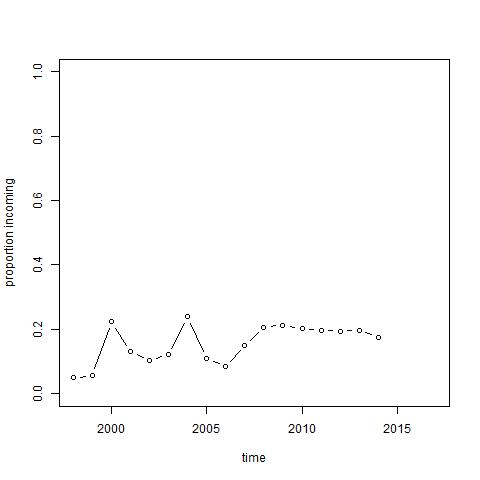
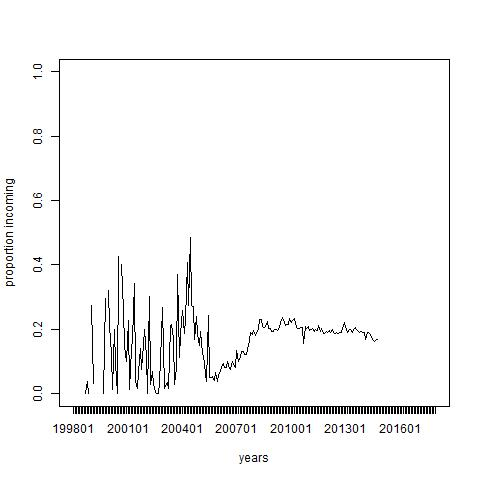
plotting on month level improved

diff --git a/plot.rb b/plot.rb
@@ -4,6 +4,7 @@
 
 require 'rinruby'
 require_relative 'read_cmd.rb'
+require_relative 'date_tools.rb'
 
 
 gran_hash = {"m" => "-----m"}
@@ -24,6 +25,7 @@ nvariants = outhash["nvariants"]
 only_process_local = outhash["only_process_local"]
 granularity = outhash["granularity"]
 total_threshold = outhash["total_threshold"]
+var_output = outhash["var_output"]
 
 maincorpus = corpus_and_label.split("-")[0]
 subcorpus = corpus_and_label.split("-")[1]
@@ -33,25 +35,10 @@ if !Dir.exist?(dir)
 end
 R.eval "setwd('#{dir}')"
 
-
-#R.eval "setwd('C:/Sasha/D/DGU/CassandraMy/KorpApi/#{dir}')"
-
-
-
-#if nvariants == 1
-#    value_index = 1
-#elsif nvariants == 2
-#    if whattoplot == "v2rel"
-#       value_index = 5
-#    elsif whattoplot == "total"
-#       value_index = 1
-#    end
-#end
-
 if ARGV.include?("nyordslistor")
-    inputdir = "variables\\nyordslistor2"
+    inputdir = "#{var_output}variables\\nyordslistor2"
 else
-    inputdir = "variables"
+    inputdir = "#{var_output}variables"
 end
 
 
@@ -61,28 +48,33 @@ file = File.open("#{inputdir}\\#{variable}#{gran_addendum}\\#{maincorpus}\\#{sub
 #file = File.open("C:\\Sasha\\D\\DGU\\CassandraMy\\hbt_authors\\Varnagel.tsv","r:utf-8")
 header = []
 years = []
+labels = []
 values = []
 whattoplot_id = nil
+period_id = nil
+#absmonth_id = nil
 file.each_line.with_index do |line,index|
-    #line1 = line.strip.gsub("#","")
-    #STDERR.puts line1
     if index > 0
         line1 = line.split("\t")
-        years << line1[0].to_i
-        #STDERR.puts line
+        if granularity == "y"
+            years << line1[period_id].to_i
+        elsif granularity == "m"
+            labels << line1[period_id]
+            years << absmonth(line1[period_id])
+        end
+        
         if nvariants == 1 or (nvariants == 2 and line1[1].to_i >= total_threshold)
-        #if nvariants == 1 or (nvariants == 2 and line1[1].to_i + line1[2].to_i >= total_threshold)
+        
             values << line1[whattoplot_id].to_f
         else
             values << "NA"
         end
-        #year = year_hash[nyord]
+        
     else
         header = line.strip.split("\t")
         whattoplot_id = header.index(whattoplot)
-        #STDERR.puts whattoplot
-        #STDERR.puts header
-        #STDERR.puts whattoplot_id
+        period_id = header.index("period")
+        #absmonth_id = header.index("absmonth")
     end
 end
 file.close
@@ -122,10 +114,6 @@ end
 
 
 if !years.empty?
-    #values_temp = values.clone
-    #values_temp.delete("NA")
-    #if !values_temp.empty?
-        #o.puts "#{nyord}\t#{values_temp.max - values_temp.min}"
         
     R.assign "years", years
     R.assign "values", values
@@ -153,7 +141,14 @@ if !years.empty?
     else
         ylab = "proportion incoming"
     end
-    R.eval "plot(years, values, type='b',xlab = 'time', ylab = '#{ylab}', ylim = c(0,maxvalue))"
+    if granularity == "y"
+        R.eval "plot(years, values, type='b',xlab = 'time', ylab = '#{ylab}', ylim = c(0,maxvalue))"
+    elsif granularity == "m"
+        R.eval "plot(years, values, type='l',xaxt='n', ylab = '#{ylab}', ylim = c(0,maxvalue))"
+        R.assign "labels",labels
+        R.eval "axis(1, at=years,labels = labels)"
+    end
+    
     if !corpus_and_label2.nil?
         R.eval "lines(years2, values2, type='b', col = 'blue', lwd = 2)"
     end
@@ -164,5 +159,5 @@ if !years.empty?
 	
     
     R.eval "dev.off()"
-    #end
+    
 end

diff --git a/read_cmd.rb b/read_cmd.rb
@@ -76,6 +76,12 @@ def process_cmd
                     variable_source = ARGV[ARGV.index("--variable_source") + 1]
                 end
 
+                if !ARGV.include?("--var_output")
+                    var_output = ""
+                else
+                    var_output = "#{ARGV[ARGV.index("--variable_source") + 1]}\\"
+                end
+
             end
         elsif query == "authors"
             if ARGV.include?("--year")
@@ -88,6 +94,6 @@ def process_cmd
             only_process_local = true
         end
     end
-    outhash = {"corpus_and_label" => corpus_and_label, "corpus_and_label2" => corpus_and_label2, "query" => query, "variable" => variable, "username" => username, "nvariants" => nvariants, "whattoplot" => whattoplot, "max" => max_predef, "dir" => dir, "nyl_year" => nyl_year, "only_process_local" => only_process_local, "granularity" => granularity, "total_threshold" => total_threshold, "variable_source" => variable_source}
+    outhash = {"corpus_and_label" => corpus_and_label, "corpus_and_label2" => corpus_and_label2, "query" => query, "variable" => variable, "username" => username, "nvariants" => nvariants, "whattoplot" => whattoplot, "max" => max_predef, "dir" => dir, "nyl_year" => nyl_year, "only_process_local" => only_process_local, "granularity" => granularity, "total_threshold" => total_threshold, "variable_source" => variable_source, "var_output" => var_output}
     return outhash
 end

diff --git a/date_tools.rb b/date_tools.rb
@@ -1,0 +1,60 @@
+@veryfirstyear = 1998
+
+def daysinyear(year)
+    if [2000, 2004, 2008, 2012, 2016, 2020].include?(year)
+        days = 366
+    else
+        days = 365
+    end
+    return days
+end
+
+def daysinyears(year)
+    days = 0
+    for i in @veryfirstyear..year-1
+        days += daysinyear(i)
+    end
+    days
+end
+
+def daysinmonth(month, year)
+    if month == 2
+        if daysinyear(year) == 366
+            days = 29
+        else
+            days = 28
+        end
+    else
+        days = {1 => 31, 3 => 31, 4 => 30, 5 => 31, 6 => 30, 7 => 31, 8 => 31, 9 => 30, 10 => 31, 11 => 30, 12 => 31}[month]
+    end
+    
+    return days
+end
+
+def daysinmonths(month, year)
+    days = 0
+    for i in 1..month-1
+        days += daysinmonth(i, year)
+    end
+    return days
+end
+
+def abs_day(ints)
+    year = ints[0].to_i
+    month = ints[1].to_i
+    day = ints[2].to_i
+    absolute_day = daysinyears(year) + daysinmonths(month, year) + day
+    return absolute_day
+end
+
+def date_to_array(date, sep)
+    array = date.split(sep)
+    
+    return array
+
+end
+
+def absmonth(yearmonth)
+    absmonth = yearmonth[0..3].to_i*12 + yearmonth[4..5].to_i
+    return absmonth
+end

diff --git a/korp16.rb b/korp16.rb
@@ -27,6 +27,8 @@ nvariants = outhash["nvariants"]
 only_process_local = outhash["only_process_local"]
 granularity = outhash["granularity"]
 variable_source = outhash["variable_source"]
+var_output = outhash["var_output"]
+
 maincorpus = corpus_and_label.split("-")[0]
 label = corpus_and_label.split("-")[1..-1].join("-")
 
@@ -42,9 +44,9 @@ end
 
 
 if ARGV.include?("nyordslistor")
-    outputdir = "variables\\nyordslistor2"
+    outputdir = "#{var_output}variables\\nyordslistor2"
 else
-    outputdir = "variables"
+    outputdir = "#{var_output}variables"
 end
 
 if !Dir.exist?(outputdir)
